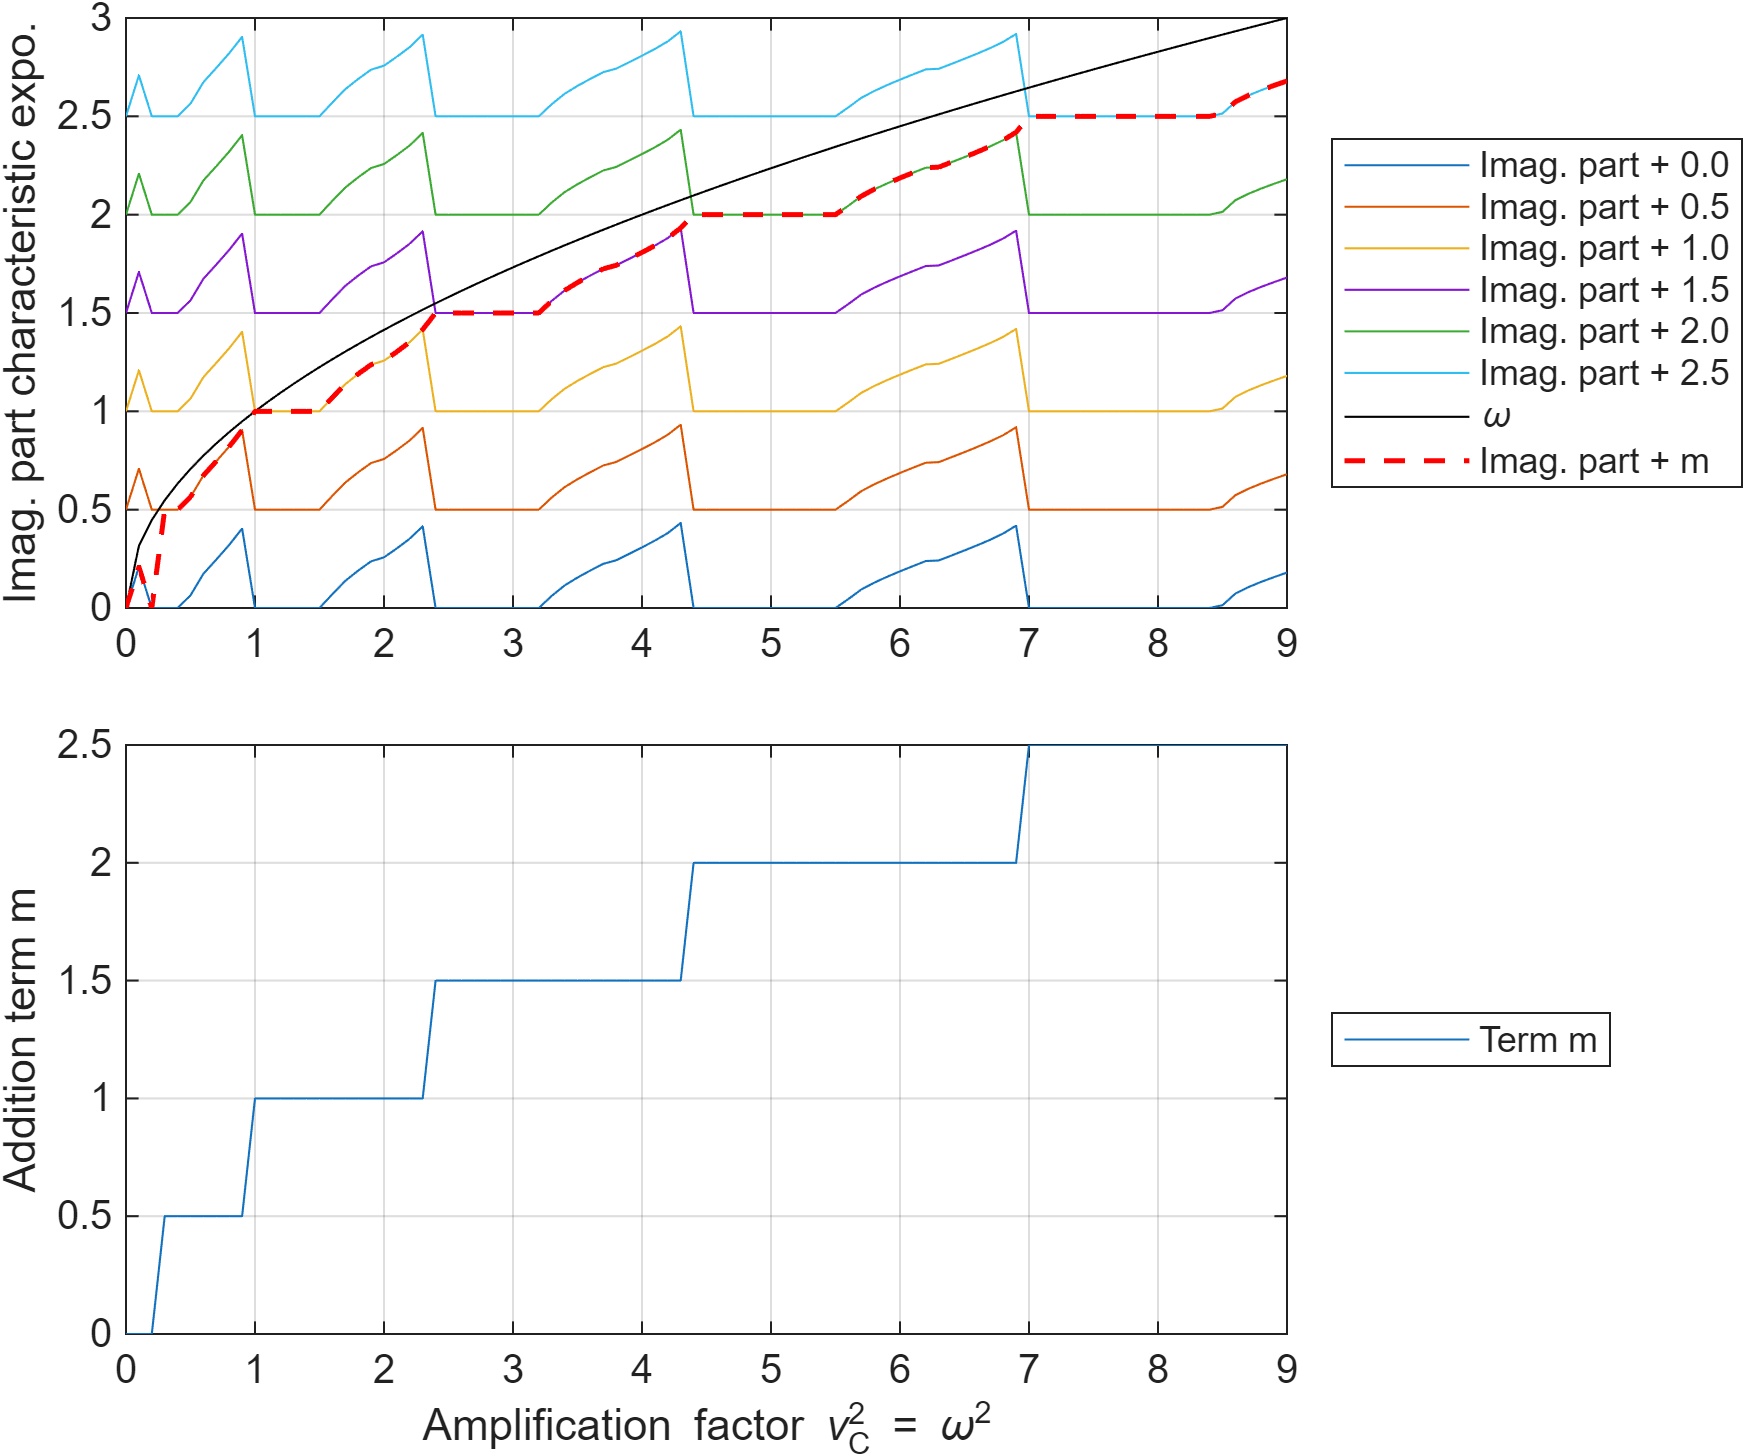
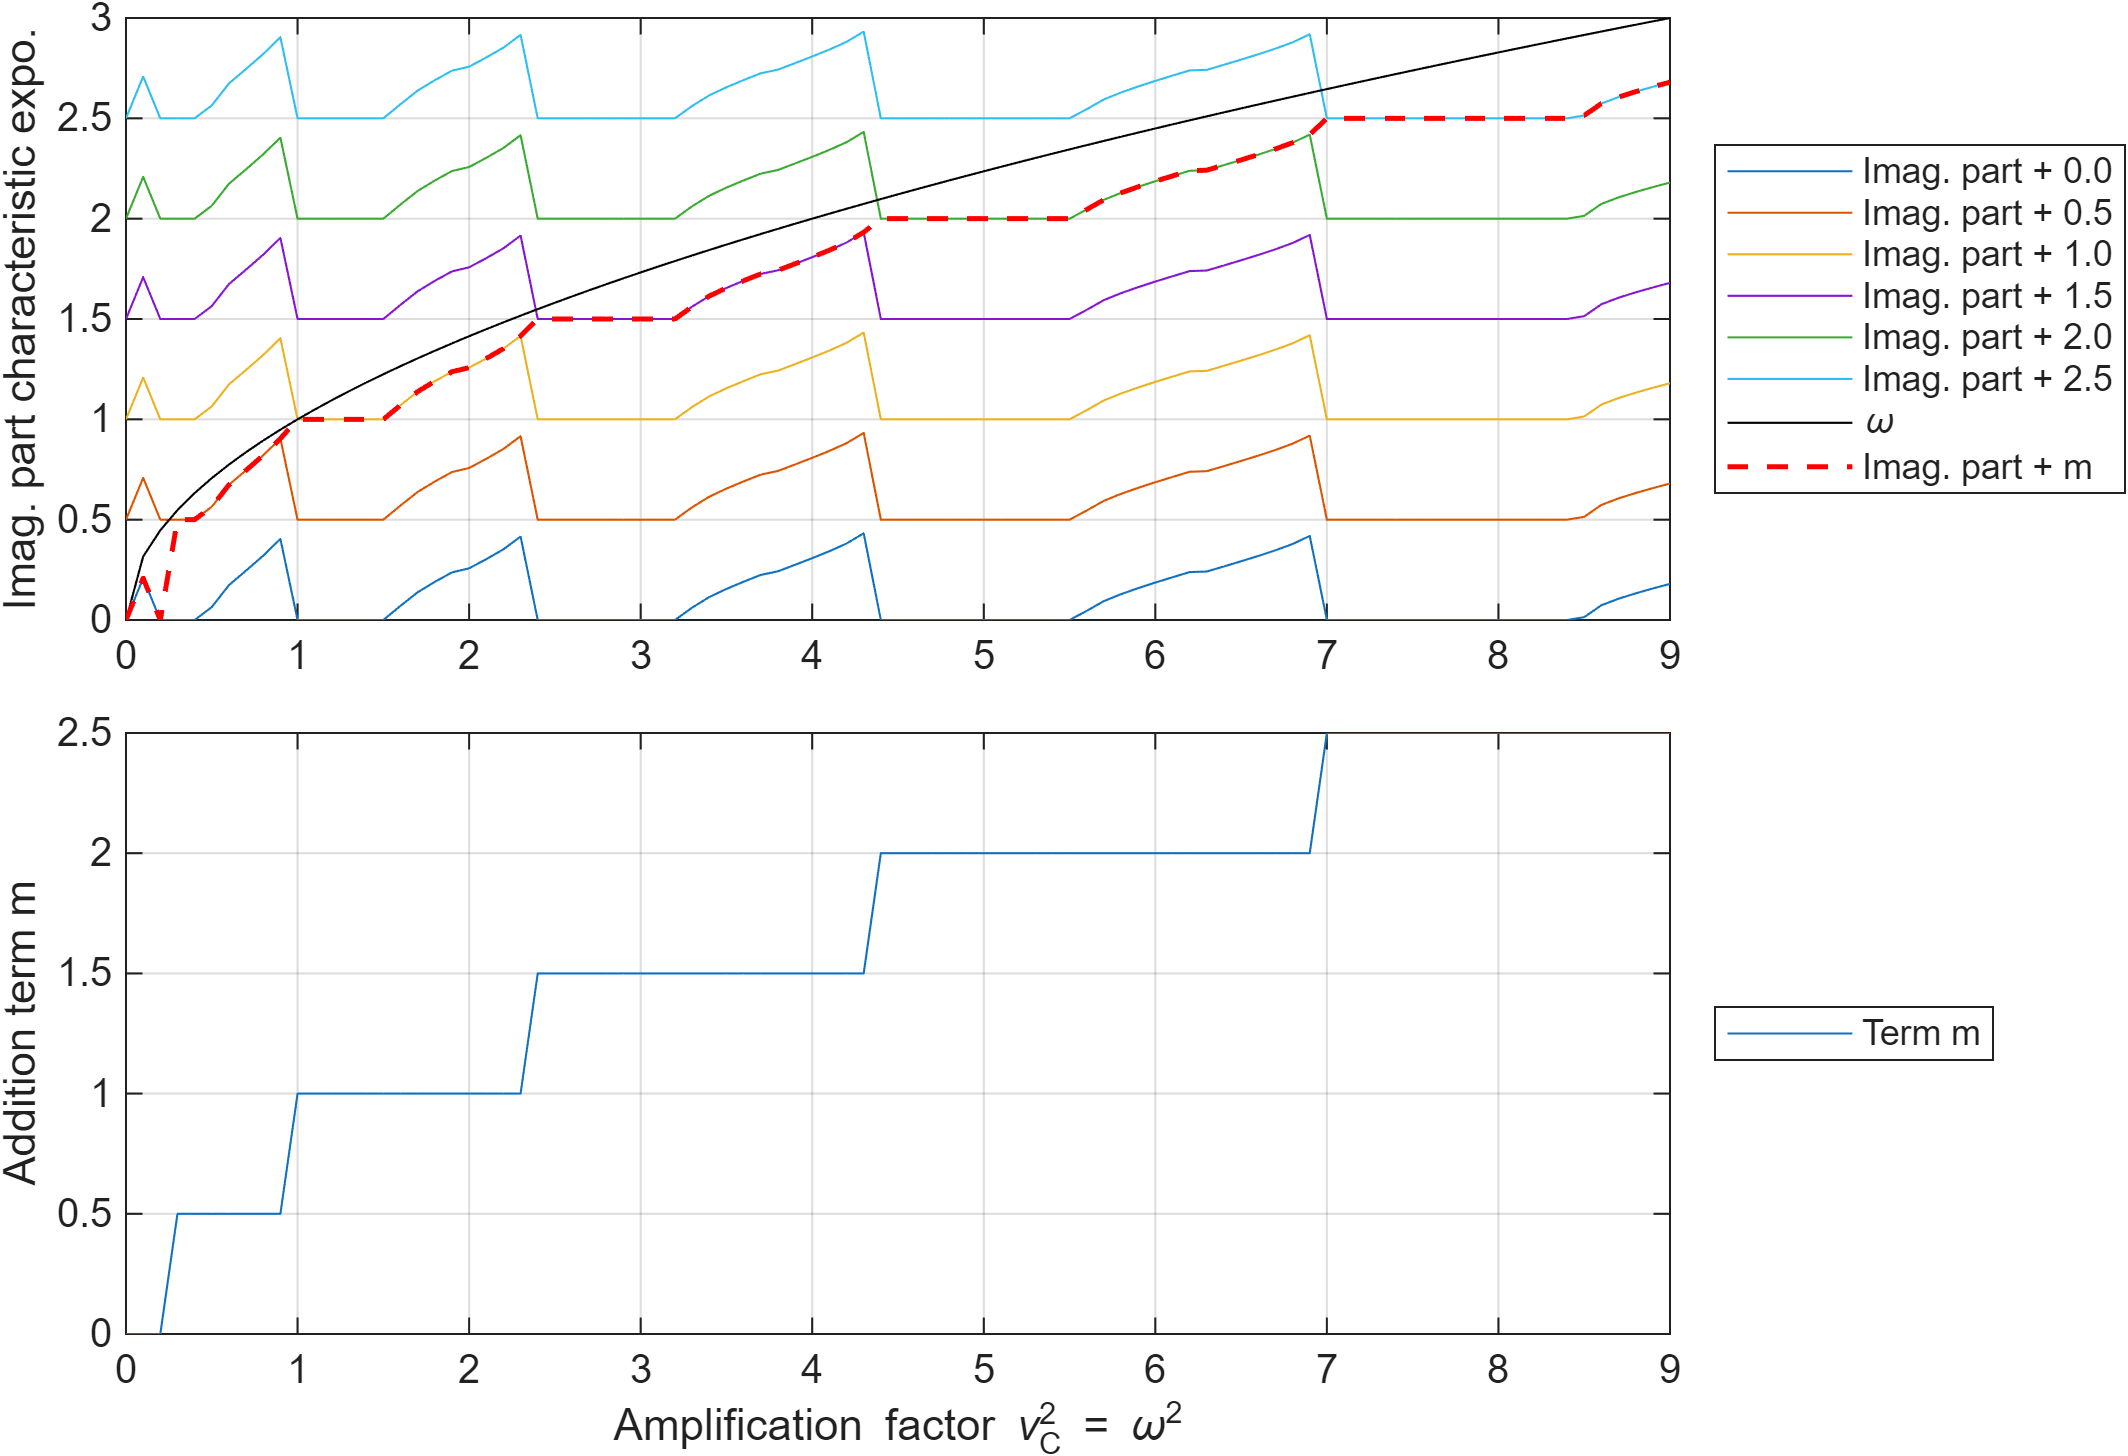
Modified diffomega <= 0.1

diff --git a/Mathieusche Differentialgleichung/Programme/Sandbox/testcompare_omega2.m b/Mathieusche Differentialgleichung/Programme/Sandbox/testcompare_omega2.m
@@ -1,7 +1,10 @@
-clc; clear; close all;
-load('CharExTableRaw.mat','CharExTable');
 
-Im_AllLine = CharExTable.Freq_s1_norm + (0:0.5:2.5).*ones(size(CharExTable.Freq_s1_norm));
+clc; clear; close all;
+excelfilename ='STRUTTscheKarte_D1dot5e-01_SW5dot0e-02_unt0CharExAll.xlsx';
+foldername = fullfile(fileparts(pwd),'dataFolder','dataFolder_Arnold_Excel_Classic_Symmetric_test');
+% load('CharExTableRaw.mat','CharExTable');
+CharExTable = readtable(fullfile(foldername,excelfilename));
+Im_AllLine = CharExTable.ImagEigNoadditionfactor  + (0:0.5:2.5).*ones(size(CharExTable.ImagEigNoadditionfactor ));
 omega      = sqrt(CharExTable.nu02);
 
 figure; hold on;
@@ -15,45 +18,17 @@ idxmin = NaN(size(omega));
 
 for idx = 1:length(omega)
     diff = Im_AllLine(idx,:) - omega(idx);     % no abs
-    mask = diff <= 0;                          % only from below
+    mask = diff <= 0.1;                          % only from below
 
-    if idx == 1
-        % first point: just take closest-from-below
-        if any(mask)
-            [Im_m(idx), idx_loc] = max(Im_AllLine(idx,mask));
-            idx_all              = find(mask);
-            idxmin(idx)          = idx_all(idx_loc);
-            Im_m_d(idx)          = omega(idx) - Im_m(idx);
-        else
-            [Im_m_d(idx), idxmin(idx)] = min(Im_AllLine(idx,:) - omega(idx));
-            Im_m(idx) = Im_AllLine(idx,idxmin(idx));
-        end
-    else
-        % later points: from below AND not smaller than previous Im_m
-        mask = mask & (Im_AllLine(idx,:) >= Im_m(idx-1));
-
-        if any(mask)
-            [Im_m(idx), idx_loc] = max(Im_AllLine(idx,mask));  % closest from below
-            idx_all              = find(mask);
-            idxmin(idx)          = idx_all(idx_loc);
-            Im_m_d(idx)          = omega(idx) - Im_m(idx);
-        else
-            % if nothing satisfies monotonic + below, keep previous value
-            Im_m(idx)   = Im_m(idx-1);
-            Im_m_d(idx) = omega(idx) - Im_m(idx);
-            idxmin(idx) = idxmin(idx-1);
-        end
-    end
+    [Im_m(idx), idx_loc] = max(Im_AllLine(idx,mask));
+    idx_all              = find(mask);
+    idxmin(idx)          = idx_all(idx_loc);
+    Im_m_d(idx)          = omega(idx) - Im_m(idx);
 end
-<<<<<<< HEAD
 hold on;
 plot(Im_m,'b','LineWidth',1.5);      % blue curve, non-decreasing
-=======
-
-figure; hold on;
-plot(Im_m,'b','LineWidth',1.5);      % blue curve, non-decreasing
 plot(omega,'k--','LineWidth',1.5);   % dashed omega
->>>>>>> 16342c24dd3d857b752736907883e637769b53ac
+plot(CharExTable.ImagEig2, 'r-.');
 xlabel('Index');
 ylabel('Value');
 grid on;

diff --git a/Mathieusche Differentialgleichung/Programme/MathieuStruttscheKarte2D.m b/Mathieusche Differentialgleichung/Programme/MathieuStruttscheKarte2D.m
@@ -2,8 +2,8 @@
 % Berechnung der Struttschen Karten in den Grenzen von nu_02 und nu_C2
 %%%%%%%%%%%%%%%%%%%%%%%%%%%%%%%%%%%%%%%%%%%%%%%%%%%%%%%%%%%%%%%%%%%
 clc; clear; close all;
-loadMat = 1;  % mat-file laden, wenn Ergebnisse mit gleichem D vorhanden
-SW = 0.1; %stepwidth
+loadMat = 0;  % mat-file laden, wenn Ergebnisse mit gleichem D vorhanden
+SW = 0.05; %stepwidth
 unt0 = 0;
 untC = 0;
 ob0 = 9;
@@ -24,7 +24,7 @@ dDir1 = fullfile(dDir,'dataFolder_Arnold_Classic_Symmetric_test');
 if ~isfolder(dDir1)
     mkdir(dDir1)
 end
-excelDir =fullfile (dDir,'dataFolder_Arnold_Excel_Classic_Symmetric_test');
+excelDir =fullfile(dDir,'dataFolder_Arnold_Excel_Classic_Symmetric_test');
 if ~isfolder(excelDir)
     mkdir(excelDir);
 end
@@ -55,7 +55,7 @@ for dIdx = 1: length(DVec)
     lenNu = lenNu02 * lenNuC2; % Anzahl Kombination Nu_C2 Werte
     lenNuDiag = min(lenNu02,lenNuC2); % Anzahl Werte nu_02 == nu_C2
     Monodromie = zeros(Nz);
-    CharEx = zeros(lenNuDiag,Nz*4+4); % nu, nc, Real1,2, Imag12, Imag1,2, Pole
+    CharEx = zeros(lenNuDiag,Nz*4+4+1); % nu, nc, Real1,2, Imag12, Imag1,2, Pole, Imaginary part without addition factor
     nAddVector = nan(lenNuDiag,1);
     plotwertstabil = zeros(lenNu,3);
     %nuCSwitchVec = [0.1,1,1.5^2,2^2,2.5^2] - 0.1;
@@ -107,7 +107,7 @@ for dIdx = 1: length(DVec)
                     end
                     
                     ImagEigSortN = [Eig.ImagCorrectedNeg, Eig.ImagCorrected] + [-n,n];
-                    CharEx(oidx,:) = [nu_02, nu_C2, Eig.Real', min(Eig.ImagSort), max(Eig.ImagSort), ImagEigSortN, eP', Eig.Imag'];
+                    CharEx(oidx,:) = [nu_02, nu_C2, Eig.Real', min(Eig.ImagSort), max(Eig.ImagSort), ImagEigSortN, eP', Eig.Imag', Eig.ImagCorrected];
                     nAddVector(oidx) = n;
                     oidx = oidx + 1;
                 end
@@ -127,8 +127,8 @@ for dIdx = 1: length(DVec)
     %%
     try
         %[nu_02, nu_C2, Eig.Real', min(ImagEigSort), max(ImagEigSort), ImagEigSortN, eP'];
-        CharExTable = array2table(CharEx(:,[1:4,7,8]),'VariableNames',...
-            {'nu02','nu_C2','Eig.Real1','Eig.Real2', 'ImagEig1', 'ImagEig2'});
+        CharExTable = array2table(CharEx(:,[1:4,7,8,end]),'VariableNames',...
+            {'nu02','nu_C2','Eig.Real1','Eig.Real2', 'ImagEig1', 'ImagEig2', 'ImagEigNoadditionfactor'});
         CharExTable.RealCharExp1 = real(CharEx(:,9));
         CharExTable.ImagCharExp1 = imag(CharEx(:,9));
         CharExTable.RealCharExp2 = real(CharEx(:,10));

diff --git a/Mathieusche Differentialgleichung/Programme/MathieuStrtutscheKarte_Peters.m b/Mathieusche Differentialgleichung/Programme/MathieuStrtutscheKarte_Peters.m
@@ -7,11 +7,10 @@
 clc; clear; close all;
 
 % --- Setup and Parameters ---
-<<<<<<< HEAD
+
 loadMat = 0; % Load mat-file if results with the same D are already available
-=======
+
 loadMat = 1; % Load mat-file if results with the same D are already available
->>>>>>> 16342c24dd3d857b752736907883e637769b53ac
 SW = 0.1;    % Step width for nu_0^2 and nu_C^2 sweep
 unt0 = 0;    % Lower bound for nu_0^2 (x-axis)
 untC = 0;    % Lower bound for nu_C^2 (y-axis)
@@ -204,11 +203,8 @@ for dIdx = 1:length(DVec)
     title('Imaginary Part (test function)','interpreter','latex','FontSize', fs+2)
     xlabel('Parameter $\nu_0^2$ $\rm{[-]}$','interpreter','latex','FontSize', fs+2);
     ylabel('Im$(s_R)$ $\rm{[-]}$','interpreter','latex','FontSize', fs+2);
-<<<<<<< HEAD
+
     legend('Location','NorthEast', 'Interpreter','latex');
-=======
-    
->>>>>>> 16342c24dd3d857b752736907883e637769b53ac
 
     linkaxes(h,'x')
     for idxH = 1:length(h)

diff --git a/Mathieusche Differentialgleichung/Programme/comparison_additionfactor_m.m b/Mathieusche Differentialgleichung/Programme/comparison_additionfactor_m.m
@@ -38,7 +38,7 @@ for i = 1:length(peters_mats)
             ImP = NaN(size(nu_P));
             for idx = 1:length(nu_P)
                 diff = Im_AllLine(idx,:) - omega0(idx);
-                mask = diff <= 0;
+                mask = diff <= 0.1;
                 if any(mask)
                     [ImP(idx), ~] = max(Im_AllLine(idx,mask));
                 else
